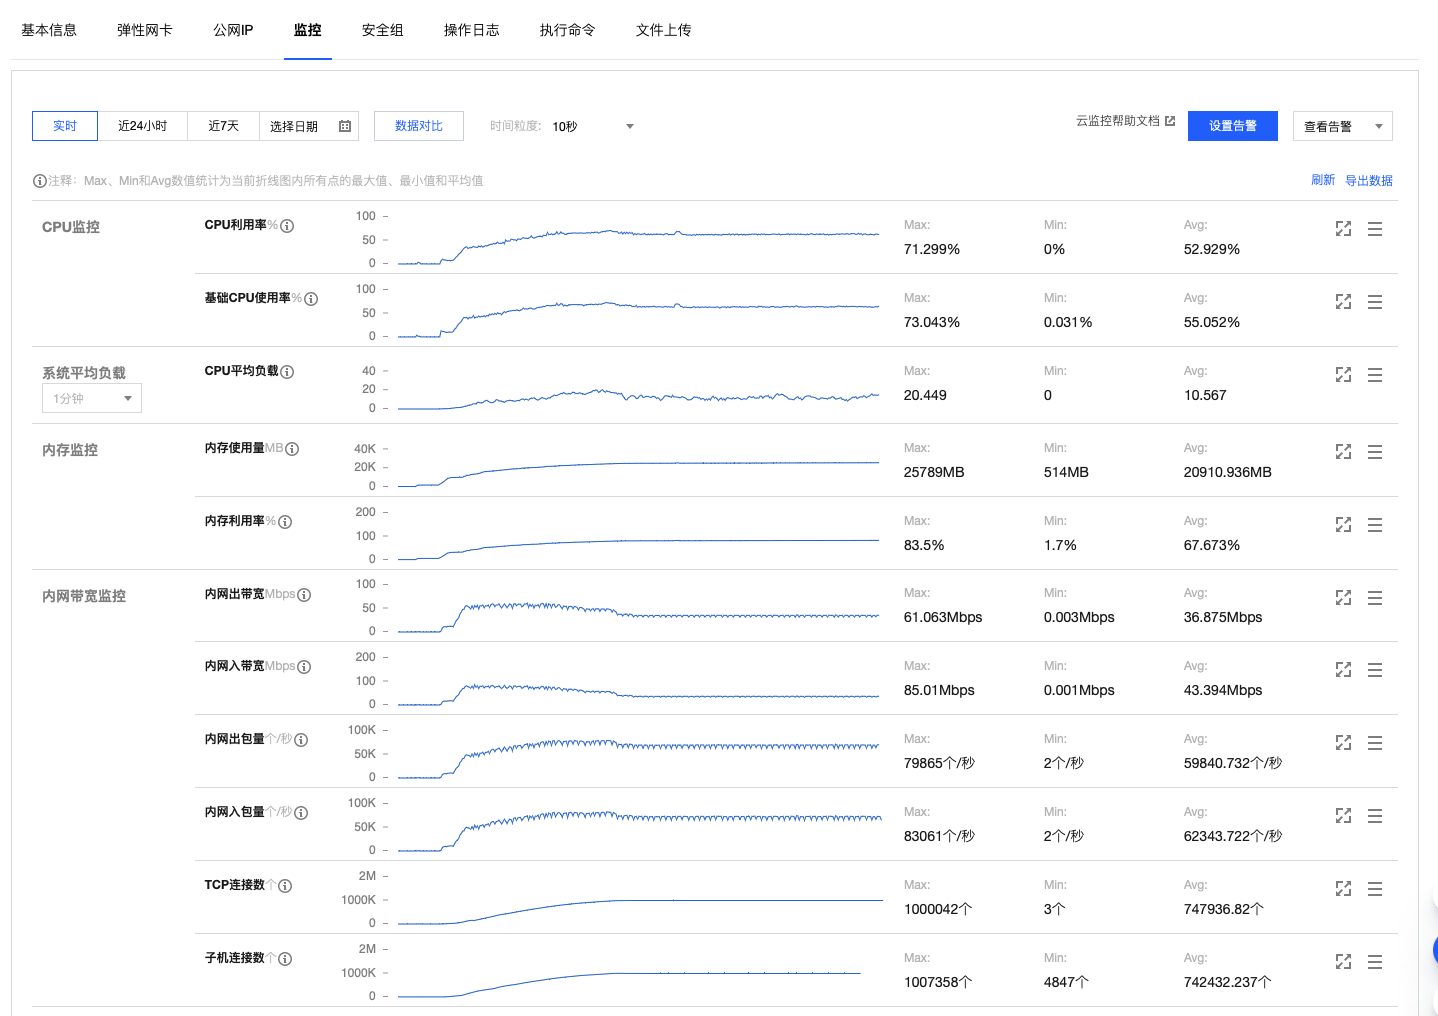
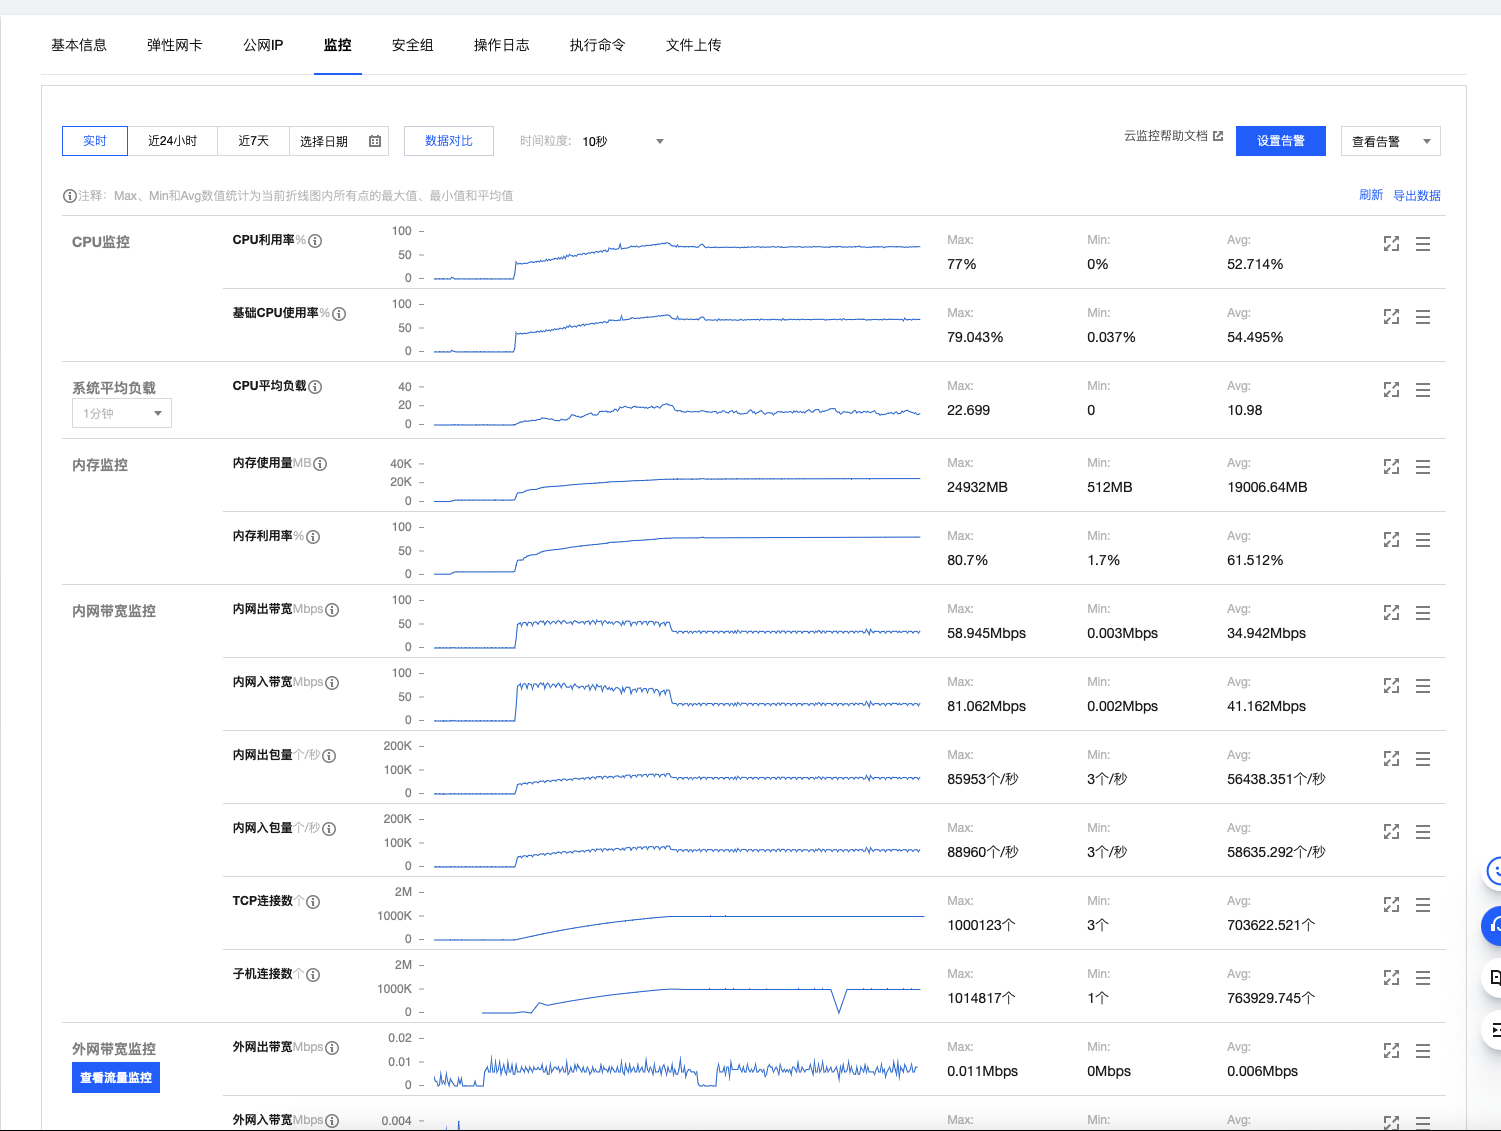
update readme

diff --git a/README.md b/README.md
@@ -114,3 +114,14 @@ JAVA_OPTS="$JAVA_OPTS -XX:MaxDirectMemorySize=4G"
 在项目目录，执行脚本```startTest.sh```。脚本会自动配置压测程序并上传到这20台服务器上，并发开始测试。可以登陆上这20台服务器（使用命令```ssh -o ServerAliveInterval=10 test1```，可以防止ssh超时退出 ），执行命令```tail -f console.log```查看连接情况。如果有部分压测机异常中断请重启一下（因为压测工具写的比较苛刻，没有重试，任何错误都会异常退出，可以忽略掉中断错误，只要最后能保持连接就行）。
 
 连接需要一定的时间，需要耐心等待。等待所有压测机都完成连接后，再保持长链接一个小时就成功完成了百万连接的测试。
+
+## 测试结果
+在建立连接时，MySQL的CPU利用率是400%，IM服务的CPU利用率从500%增长到1200%。首次测试大概需求20分钟才能全部建立连接，只有再此测试只需要15分钟左右。
+
+当所有连接建立之后，MySQL的CPU利用率降为0；IM服务的CPU利用率在1000%，内存利用率是81%，端口1883的网络连接在1000000；成功保持30分钟，一百万连接全都正常保持长链接，没有断开掉线的情况。
+
+IM服务性能监控:
+![IM服务性能图](./asserts/im_server_performance.png)
+
+MySQL数据库性能监控:
+![MySQL性能图](./asserts/mysql_server_performance.png)
